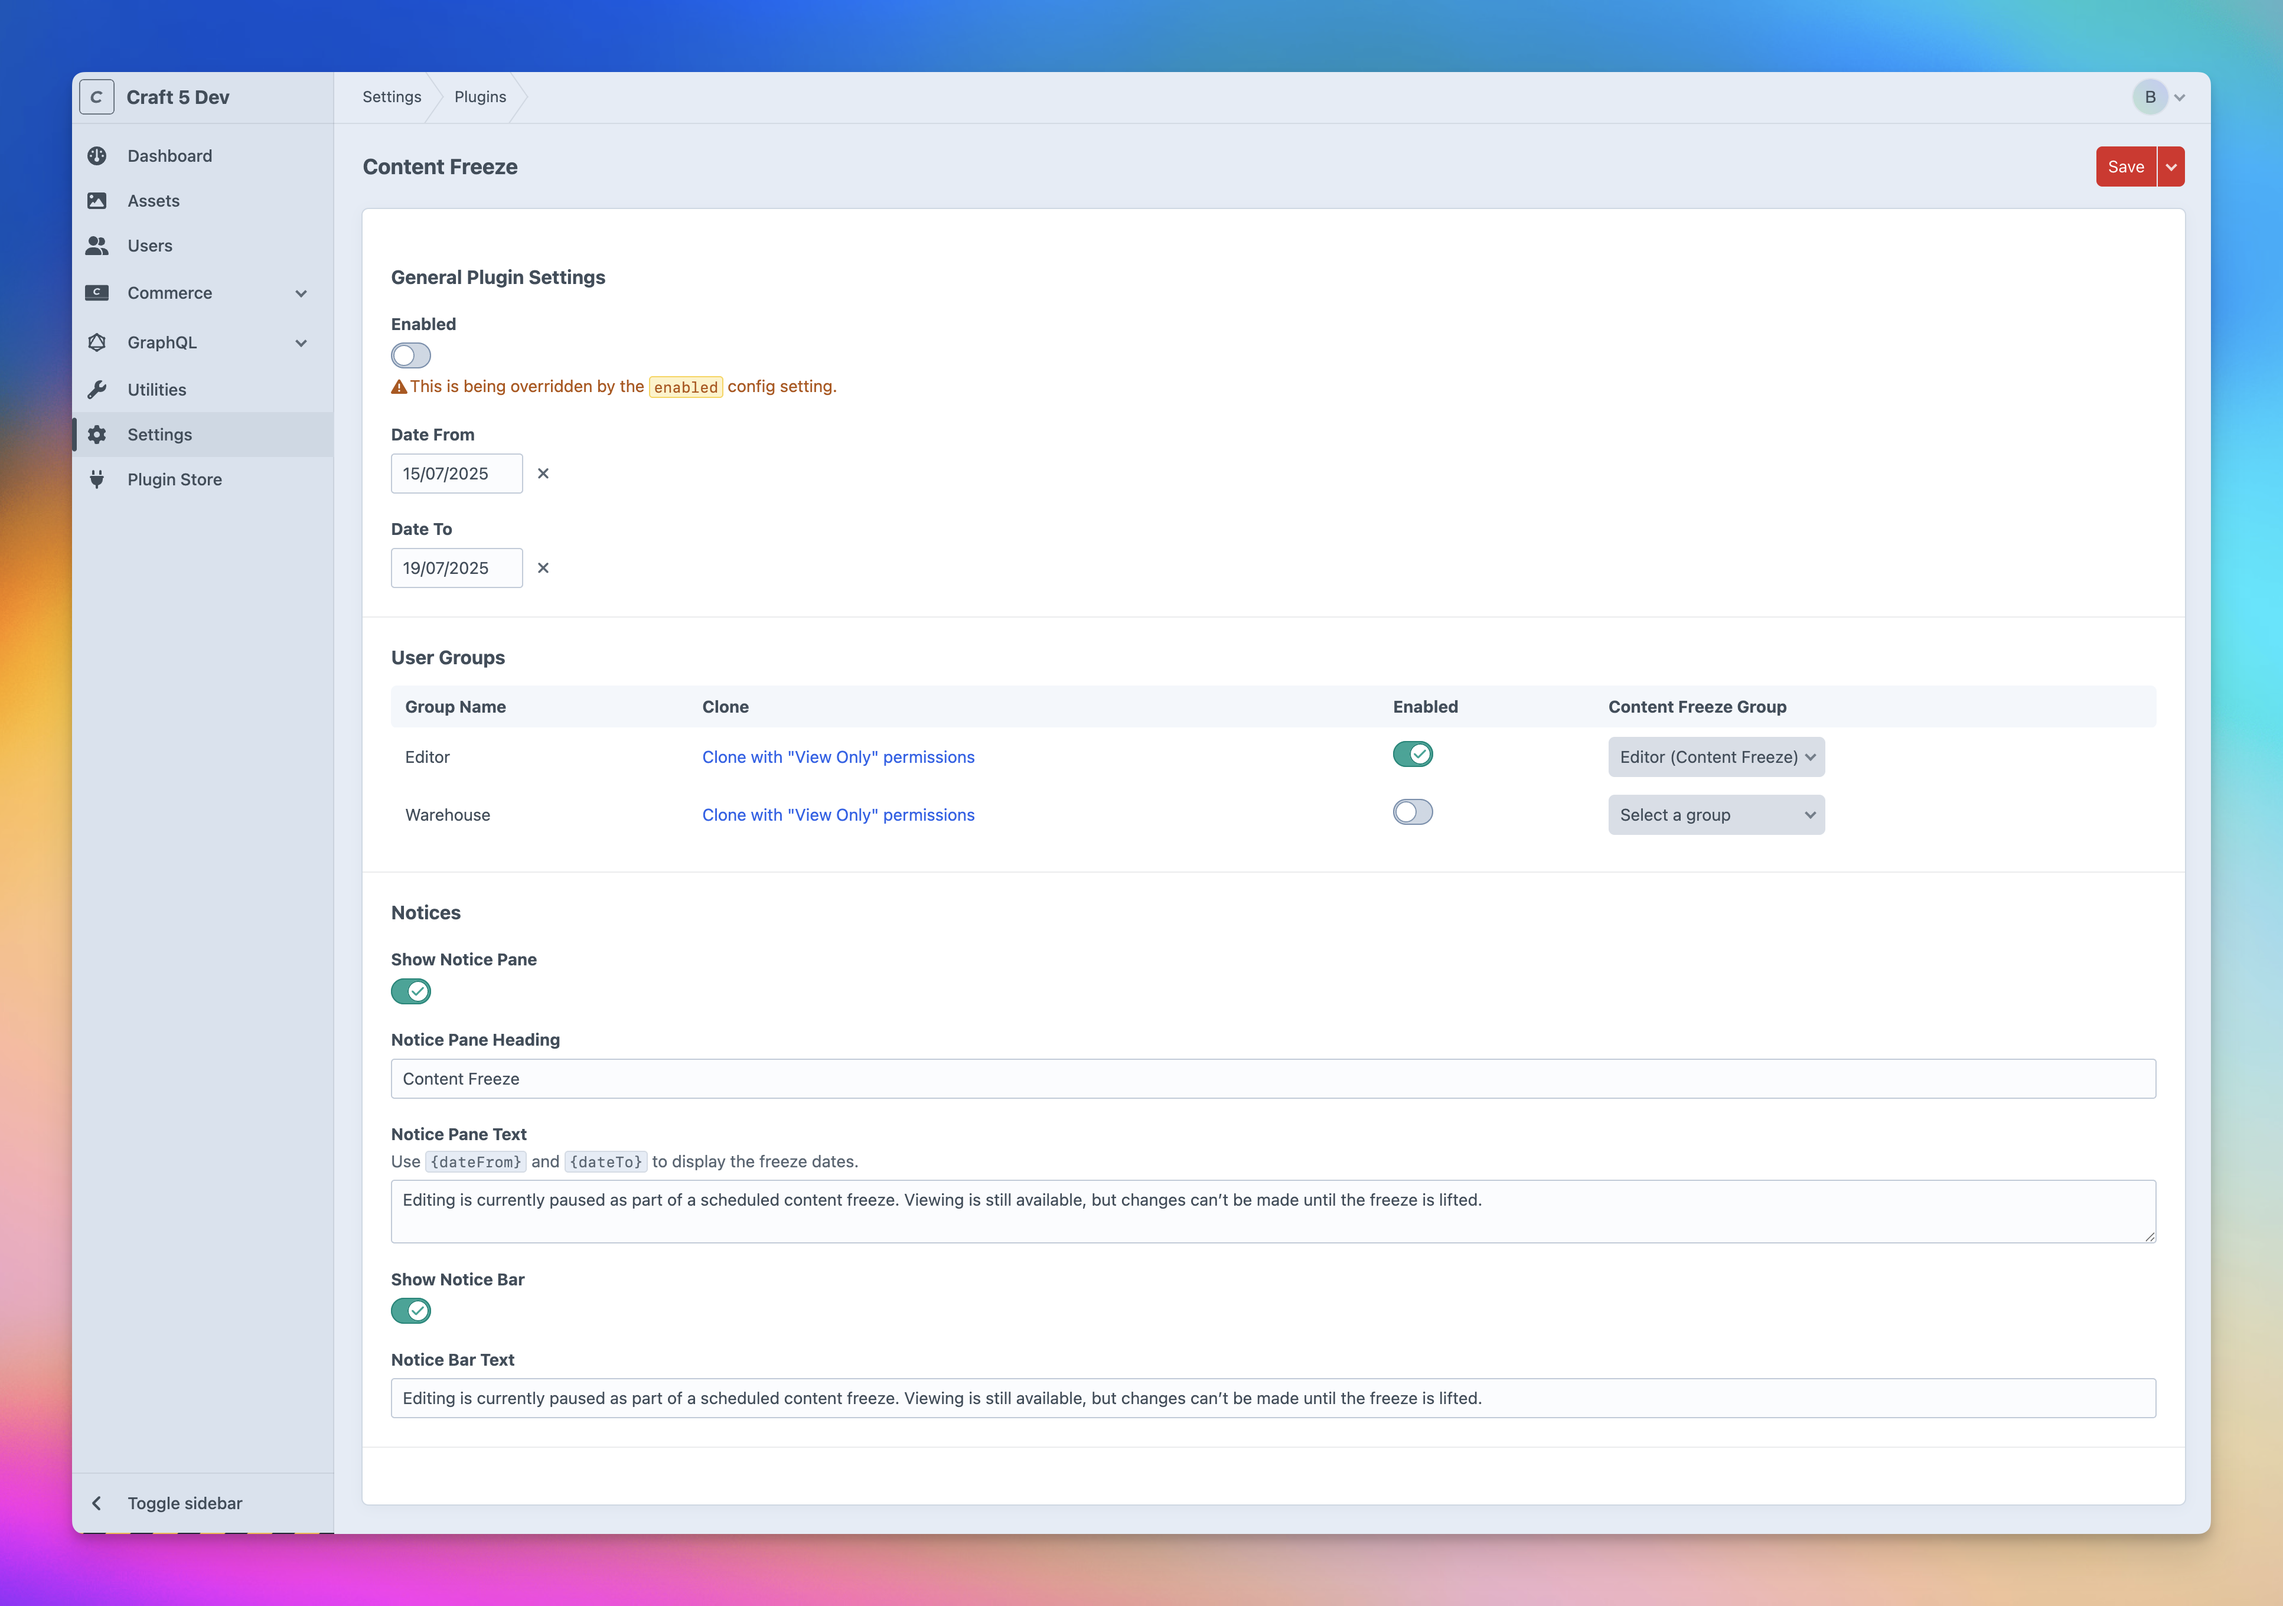
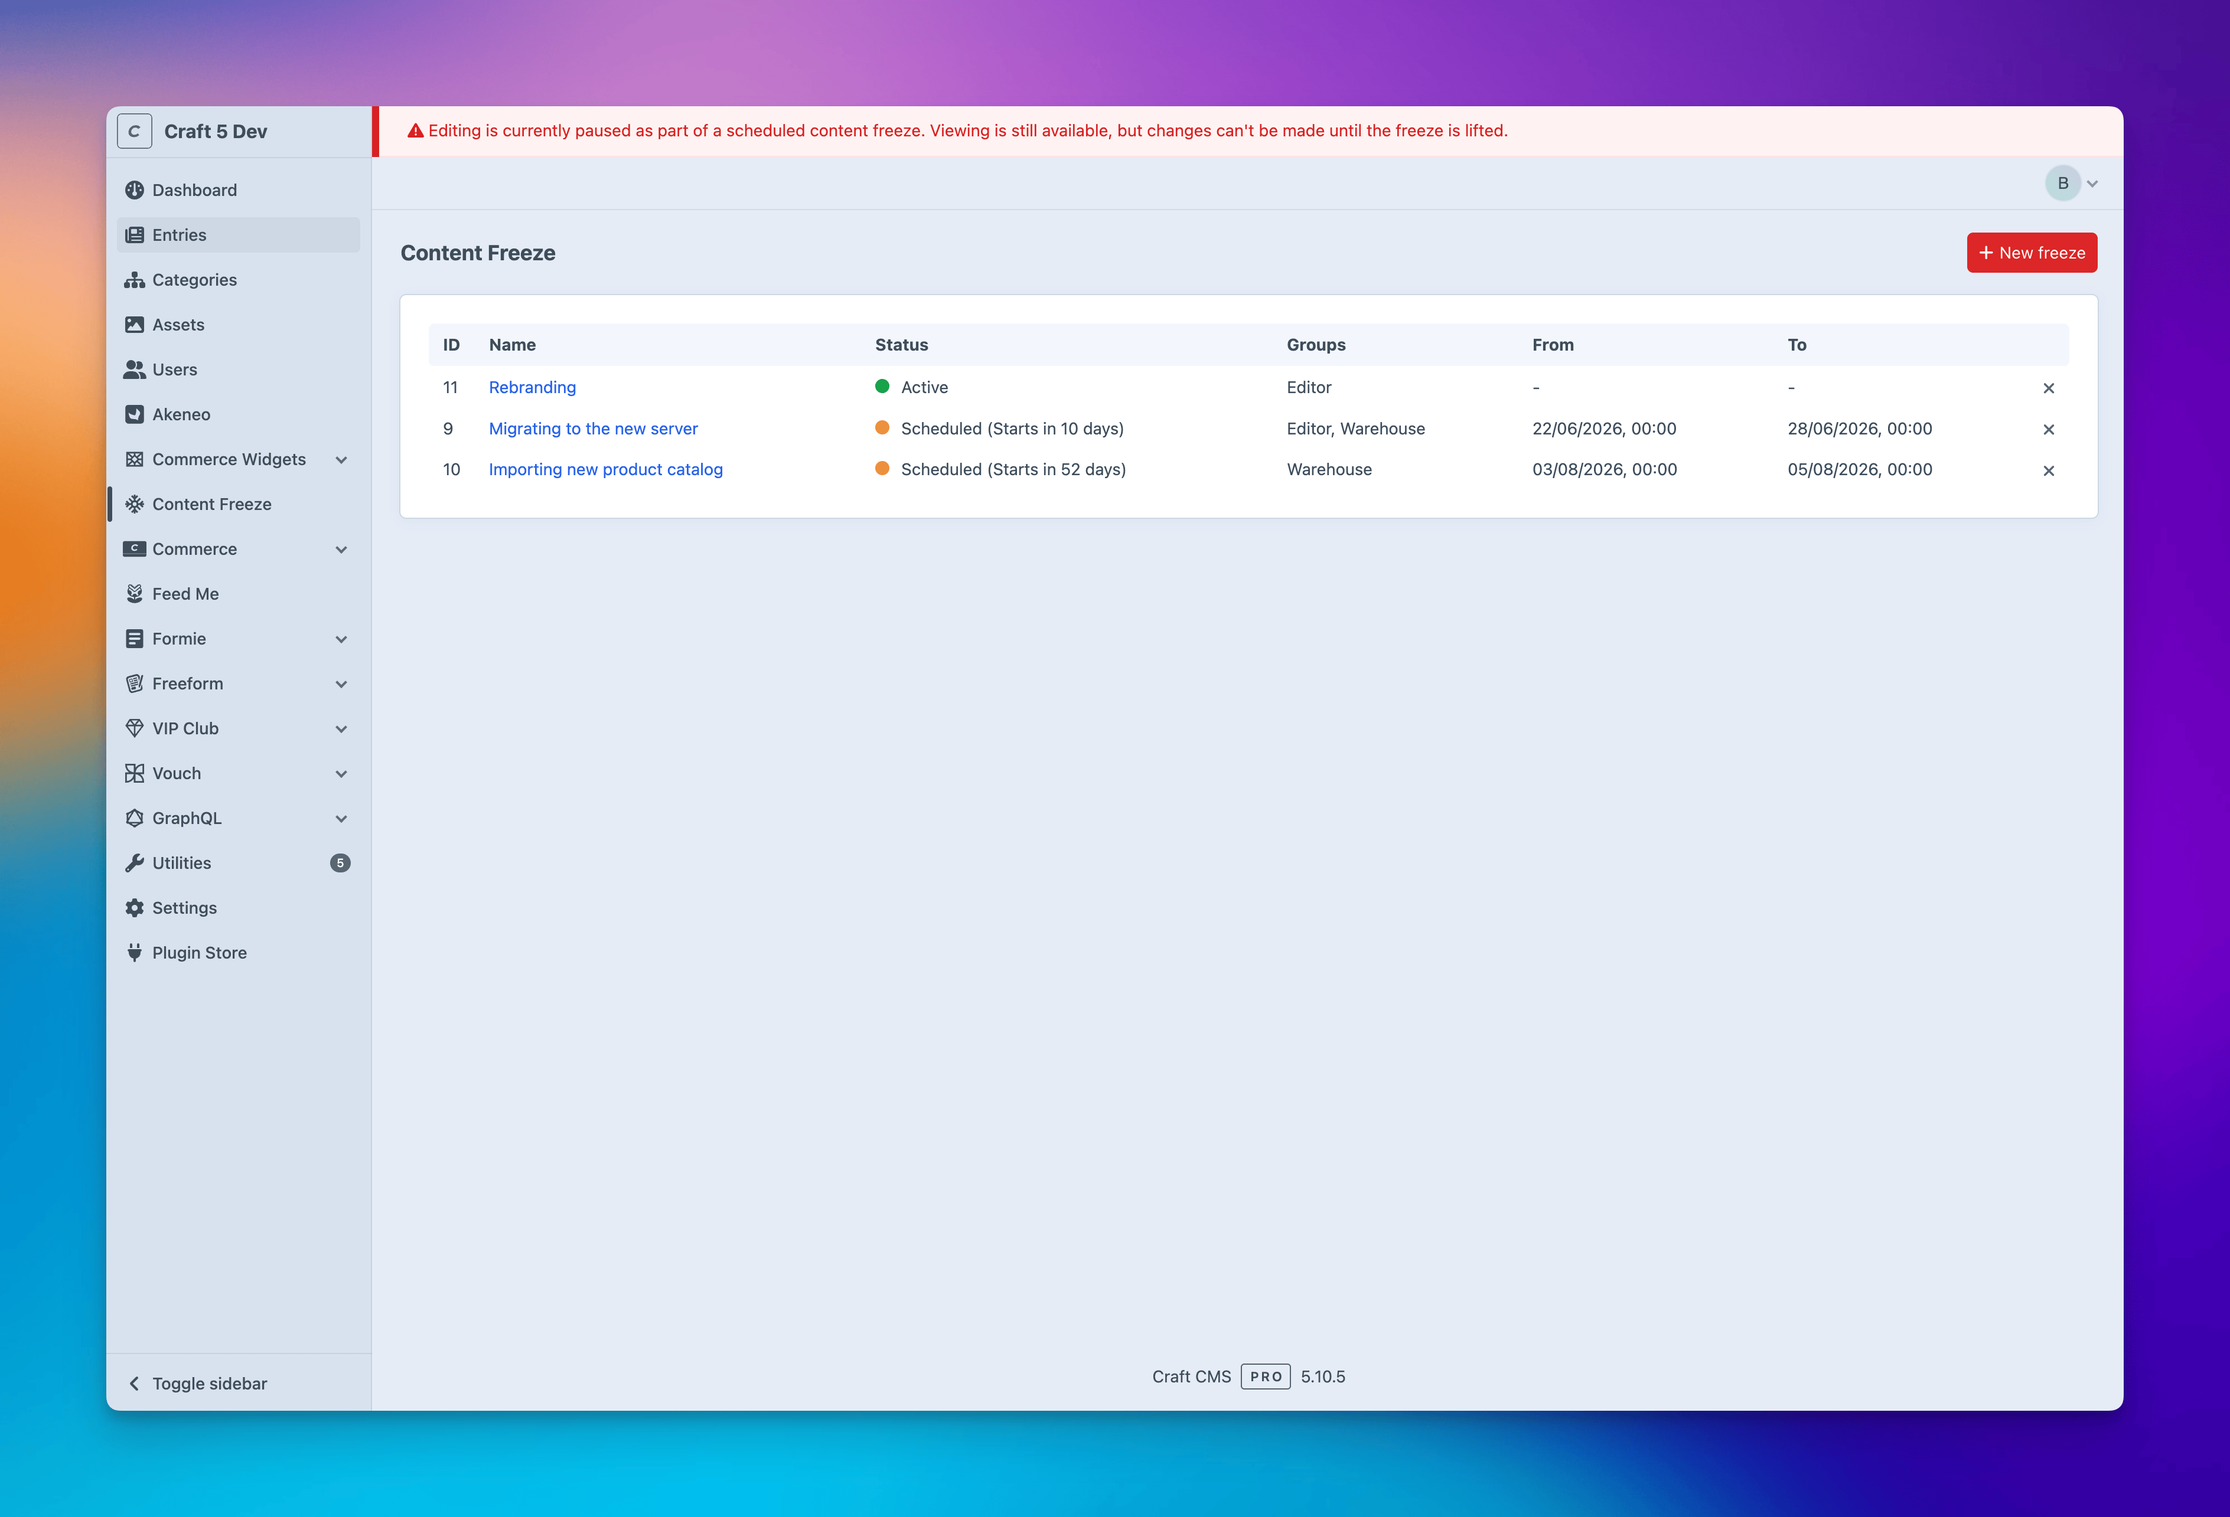
Fixed: Various issues

diff --git a/src/models/Freeze.php b/src/models/Freeze.php
@@ -75,15 +75,30 @@ class Freeze extends Model
     }
 
     /**
-     * Ensures every enabled user-group row has a "Move Users To" target chosen.
+     * Ensures at least one user group is enabled, and that every enabled row has
+     * a "Move Users To" target chosen.
      */
     public function validateUserGroups(string $attribute): void
     {
+        $enabledCount = 0;
+        $missingTarget = false;
+
         foreach ($this->userGroups as $config) {
-            if (!empty($config['enabled']) && empty($config['contentFreezeGroup'])) {
-                $this->addError($attribute, Craft::t('content-freeze', 'Choose a “Move Users To” group for each enabled user group.'));
-                return;
+            if (empty($config['enabled'])) {
+                continue;
             }
+
+            $enabledCount++;
+
+            if (empty($config['contentFreezeGroup'])) {
+                $missingTarget = true;
+            }
+        }
+
+        if ($enabledCount === 0) {
+            $this->addError($attribute, Craft::t('content-freeze', 'Enable at least one user group and choose where to move its users.'));
+        } elseif ($missingTarget) {
+            $this->addError($attribute, Craft::t('content-freeze', 'Choose a “Move Users To” group for each enabled user group.'));
         }
     }
 

diff --git a/src/controllers/FreezesController.php b/src/controllers/FreezesController.php
@@ -30,8 +30,22 @@ class FreezesController extends Controller
 
     public function actionIndex(): Response
     {
+        $freezes = Plugin::getInstance()->freezes->getAllFreezes();
+
+        // Active freezes first, then ordered by start date (open-ended first).
+        usort($freezes, function (Freeze $a, Freeze $b) {
+            $aActive = $a->getStatus() === Freeze::STATUS_ACTIVE;
+            $bActive = $b->getStatus() === Freeze::STATUS_ACTIVE;
+
+            if ($aActive !== $bActive) {
+                return $aActive ? -1 : 1;
+            }
+
+            return ($a->dateFrom?->getTimestamp() ?? PHP_INT_MIN) <=> ($b->dateFrom?->getTimestamp() ?? PHP_INT_MIN);
+        });
+
         return $this->renderTemplate('content-freeze/freezes/_index', [
-            'freezes' => Plugin::getInstance()->freezes->getAllFreezes(),
+            'freezes' => $freezes,
         ]);
     }
 

diff --git a/src/widgets/ContentFreeze.php b/src/widgets/ContentFreeze.php
@@ -60,10 +60,13 @@ class ContentFreeze extends Widget
             }
         }
 
-        // Soonest-starting upcoming freeze first.
-        usort($upcoming, fn(Freeze $a, Freeze $b) =>
-            ($a->dateFrom?->getTimestamp() ?? PHP_INT_MAX) <=> ($b->dateFrom?->getTimestamp() ?? PHP_INT_MAX)
-        );
+        // Order each group by start date (open-ended first), matching the freeze
+        // index. Active freezes render before upcoming ones in the template.
+        $byDateFrom = fn(Freeze $a, Freeze $b) =>
+            ($a->dateFrom?->getTimestamp() ?? PHP_INT_MIN) <=> ($b->dateFrom?->getTimestamp() ?? PHP_INT_MIN);
+
+        usort($active, $byDateFrom);
+        usort($upcoming, $byDateFrom);
 
         return Craft::$app->getView()->renderTemplate('content-freeze/_widget/body', [
             'active' => $active,

diff --git a/CHANGELOG.md b/CHANGELOG.md
@@ -20,7 +20,8 @@
 
 ### Changed
 - The freeze edit screen is split into General, User Groups and Notices tabs, with error indicators on the tab when a field fails validation
-- Enabled user-group rows require a "Move Users To" group, with an inline error if one isn't chosen
+- A freeze must have at least one enabled user group, and each enabled row requires a "Move Users To" group
+- The freeze list is ordered with active freezes first, then by start date
 - Access is controlled by the Access Content Freeze permission (no longer admin-only)
 - User moves run via a queue job (no more blocking the request)
 - Freezes are stored in the database (not project config)
